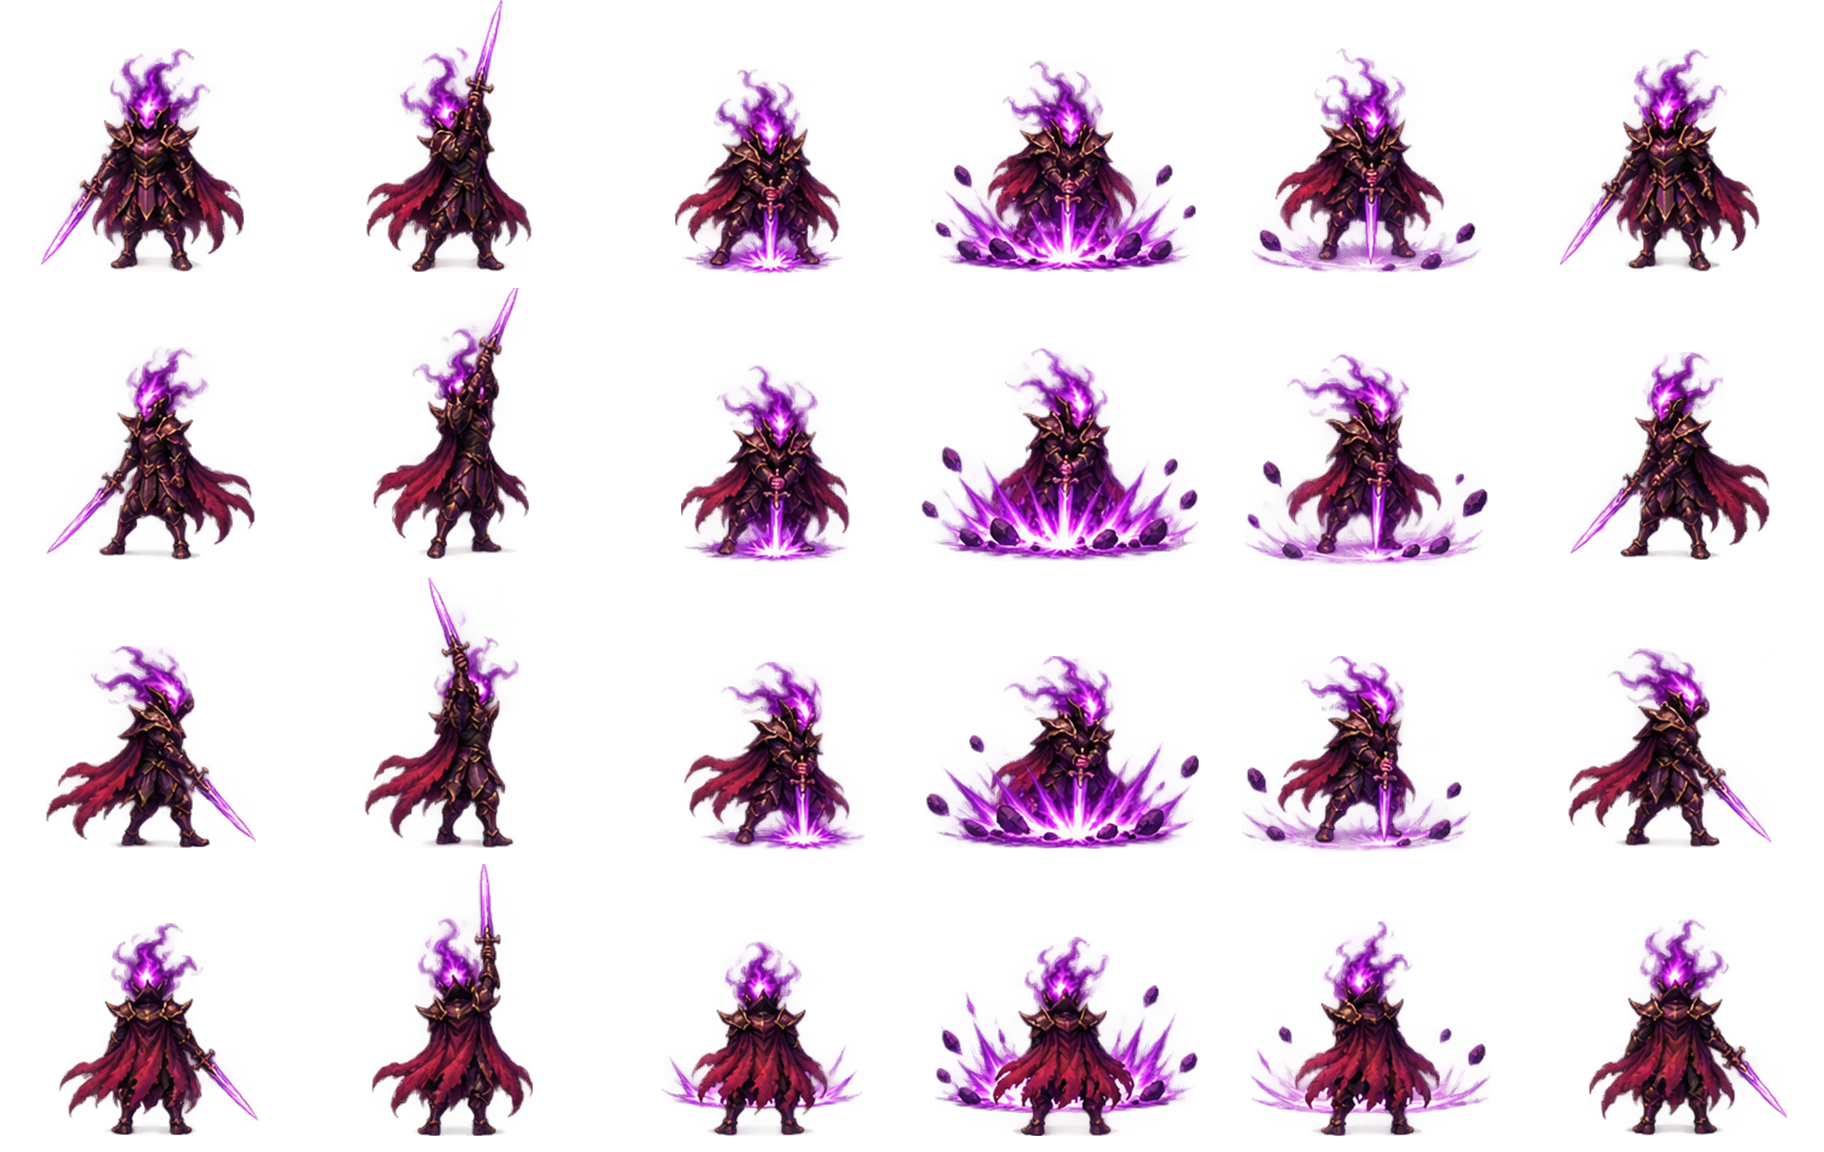
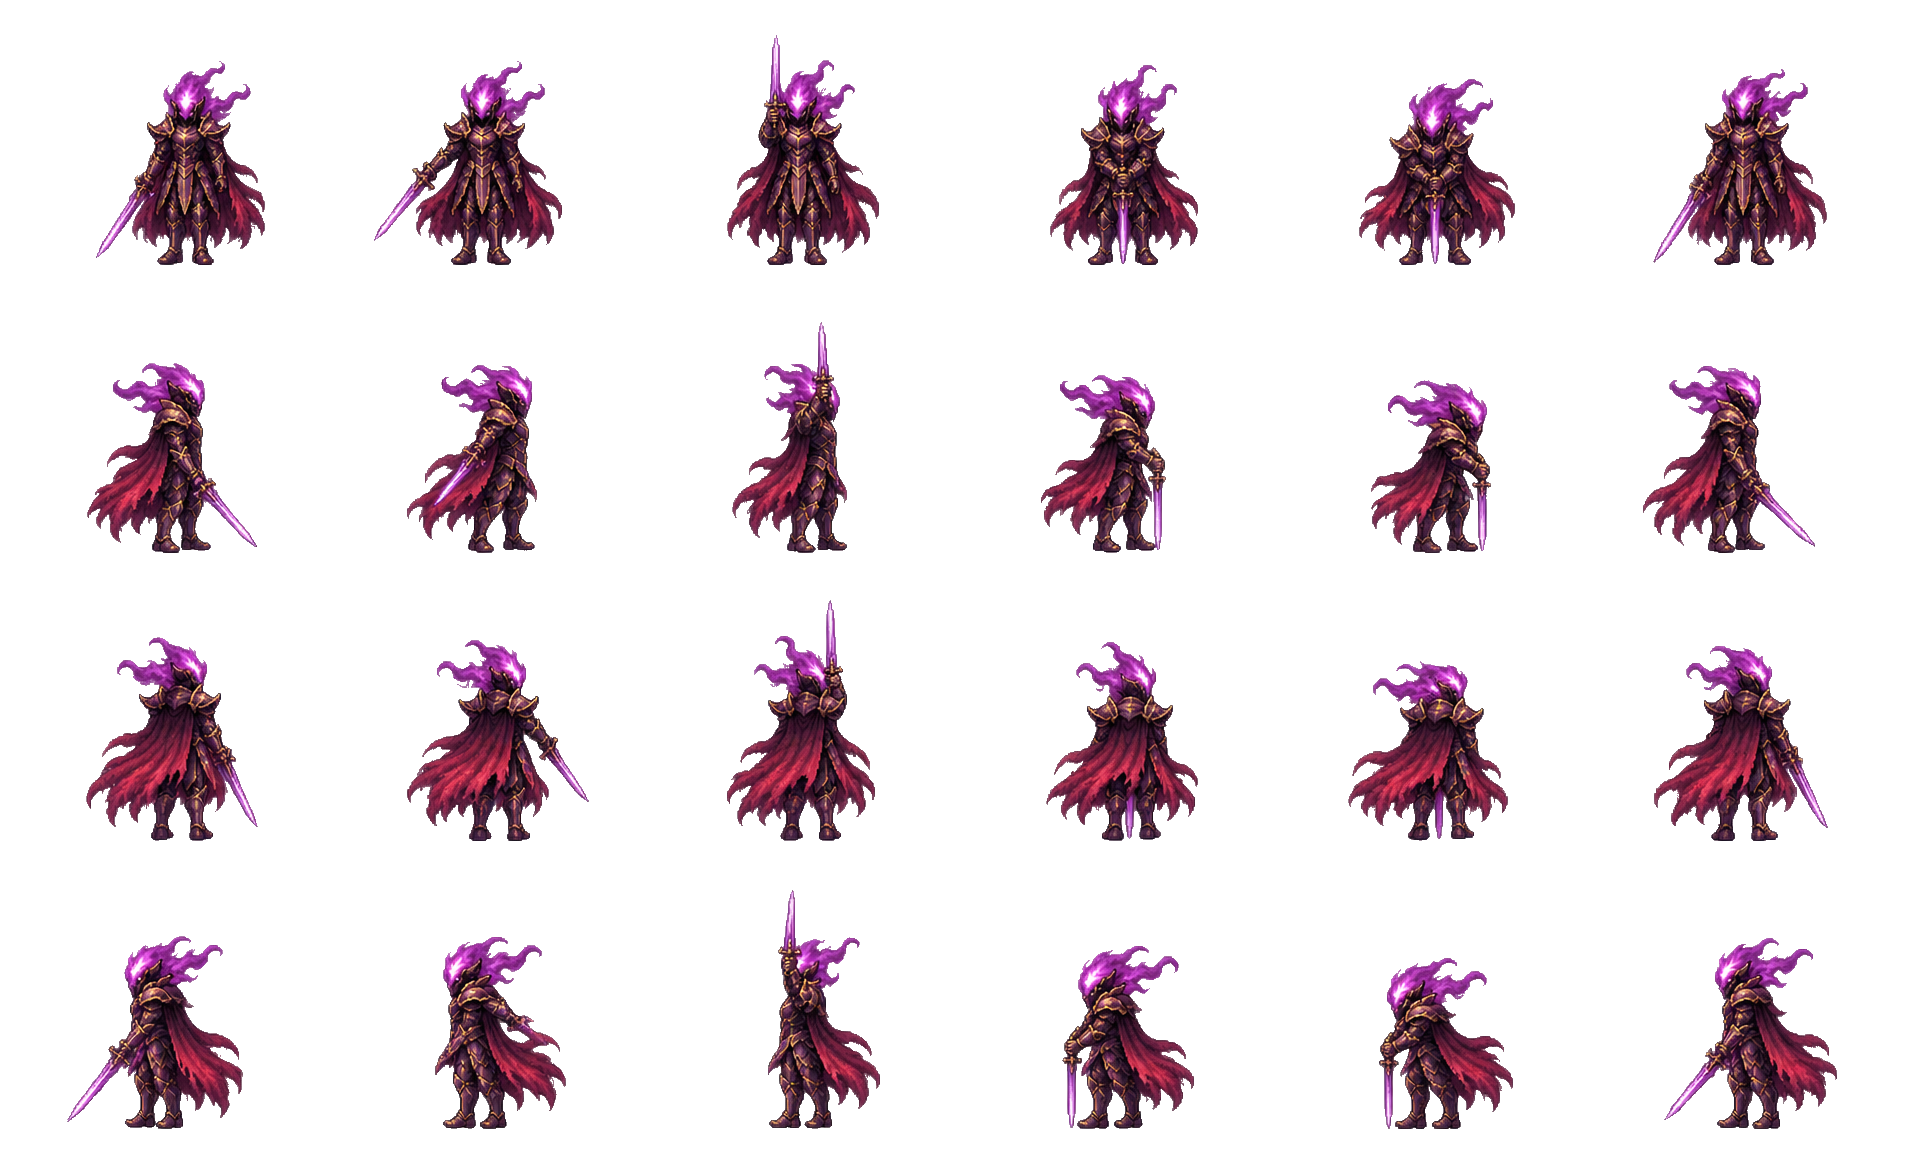
Refina escala, caminhada e ataques do Igris

diff --git a/src/enemy.c b/src/enemy.c
@@ -1449,6 +1449,7 @@ static void UpdateIgris(EnemyGroup *group, const Clearing *map, Enemy *boss, Vec
     bool enraged = GuardianEnraged(boss);
     if (boss->state != ENEMY_ATTACK) {
         if (*health <= 0) return;
+        int previousFacing = boss->facing;
         boss->facing = FacingToward(direction);
         if (boss->attackCooldown <= 0 && MapHasClearPath(map,boss->position,player)) {
             int skill = -1;
@@ -1496,10 +1497,18 @@ static void UpdateIgris(EnemyGroup *group, const Clearing *map, Enemy *boss, Vec
             }
         }
         if (distance > 90) {
-            boss->state = ENEMY_WALK;
-            boss->walkTime += dt;
+            Vector2 start = boss->position;
             float speedScale = boss->igrisFinalForm ? 1.30f : enraged ? 1.13f : 1;
             MoveEnemy(map,boss,Vector2Scale(direction,boss->speed*dt*speedScale));
+            Vector2 step = Vector2Subtract(boss->position,start);
+            float traveled = Vector2Length(step);
+            boss->state = traveled > .01f ? ENEMY_WALK : ENEMY_IDLE;
+            if (boss->state == ENEMY_WALK) {
+                boss->walkTime += traveled / boss->speed;
+                float dx = fabsf(step.x), dy = fabsf(step.y);
+                bool horizontal = previousFacing >= 2 ? dx > dy*.85f : dx > dy/.85f;
+                boss->facing = horizontal ? (step.x < 0 ? 2 : 3) : (step.y < 0 ? 1 : 0);
+            }
         } else boss->state = ENEMY_IDLE;
         return;
     }
@@ -2240,24 +2249,24 @@ static void DrawIgrisCell(Texture2D art, int columns, int rows, int col, int row
                    (Vector2){width*anchorX,height*anchorY},tilt,tint);
 }
 
-static void DrawIgrisEclipsePose(Texture2D art, int frame, int row, Vector2 feet, Color tint) {
-    static const int edges[4][9] = {
-        {0,182,360,548,751,974,1188,1363,1536},
-        {0,181,367,550,745,973,1180,1362,1536},
-        {0,197,395,566,766,1012,1203,1371,1536},
-        {0,170,352,527,715,929,1155,1354,1536},
+// The body has a common standing height. Measure the resting pose in each sheet,
+// excluding detached effects, so larger cells and crouches do not change scale.
+#define IGRIS_BODY_HEIGHT 162.0f
+static void DrawIgrisBody(Texture2D tex, int art, int columns, int rows, int frame, int row,
+                           Vector2 feet, bool flip, float tilt, Color tint) {
+    static const struct { float body, ground; } fit[IGRIS_ART_COUNT] = {
+        [IGRIS_IDLE_ART] = {218,239}, [IGRIS_WALK_ART] = {217,239},
+        [IGRIS_MELEE_ART] = {215,269}, [IGRIS_ERUPTION_ART] = {194,264},
+        [IGRIS_SPEARS_ART] = {195,264}, [IGRIS_VORTEX_ART] = {208,264},
+        [IGRIS_FINAL_IDLE] = {232,280}, [IGRIS_FINAL_WALK] = {232,280},
+        [IGRIS_FINAL_MELEE] = {234,280}, [IGRIS_GRAB_ART] = {188,267},
+        [IGRIS_ECHO_ART] = {190,252},
+        [IGRIS_Z_DOWN] = {237,312}, [IGRIS_Z_UP] = {250,322},
+        [IGRIS_Z_LEFT] = {208,303}, [IGRIS_Z_RIGHT] = {222,304},
     };
-    static const int body[4][8] = {
-        {100,269,454,639,844,1062,1272,1441},
-        {101,270,456,622,814,1030,1259,1447},
-        {114,287,474,664,883,1080,1280,1471},
-        {96,259,431,611,814,1029,1243,1446},
-    };
-    int left = edges[row][frame], width = edges[row][frame+1]-left;
-    const float scale = .85f;
-    DrawTexturePro(art,(Rectangle){left,row*256,width,256},
-                   (Rectangle){feet.x,feet.y,width*scale,256*scale},
-                   (Vector2){(body[row][frame]-left)*scale,239*scale},0,tint);
+    float cellHeight = tex.height/(float)rows;
+    DrawIgrisCell(tex,columns,rows,frame,row,feet,cellHeight*IGRIS_BODY_HEIGHT/fit[art].body,
+                  .5f,fit[art].ground/cellHeight,flip,tilt,tint);
 }
 
 static void DrawIgrisEruption(Texture2D art, int frame, Vector2 center) {
@@ -2278,13 +2287,9 @@ static void DrawIgrisEruption(Texture2D art, int frame, Vector2 center) {
                    (Vector2){width*scale*.5f,(height-9)*scale},0,WHITE);
 }
 
-static int IgrisRow(int art, int facing) {
-    static const int basicRows[] = {0,2,3,1};
-    static const int spellRows[] = {0,3,2,1};
-    static const int eruptionRows[] = {0,3,1,2};
-    if (art == IGRIS_ERUPTION_ART) return eruptionRows[facing];
-    if (art >= IGRIS_SPEARS_ART) return spellRows[facing];
-    return basicRows[facing];
+static int IgrisRow(int facing) {
+    static const int rows[] = {0,2,3,1};
+    return rows[facing];
 }
 
 static void DrawTemplarSprite(const EnemyGroup *group, const Enemy *enemy,
@@ -2317,7 +2322,8 @@ static void DrawIgris(const EnemyGroup *group, const Enemy *enemy) {
     if (enemy->state == ENEMY_WALK || enemy->state == ENEMY_SPAWNING) {
         art = enemy->igrisFinalForm ? IGRIS_FINAL_WALK : IGRIS_WALK_ART;
         columns = enemy->igrisFinalForm ? 4 : 7;
-        frame = (int)((enemy->state == ENEMY_WALK ? enemy->walkTime : enemy->stateTime)*11)%columns;
+        float cadence = enemy->igrisFinalForm ? 8 : 10;
+        frame = (int)((enemy->state == ENEMY_WALK ? enemy->walkTime : enemy->stateTime)*cadence)%columns;
     }
     if (enemy->state == ENEMY_ATTACK) {
         int skill = enemy->bossAttack;
@@ -2325,41 +2331,38 @@ static void DrawIgris(const EnemyGroup *group, const Enemy *enemy) {
             float t = enemy->stateTime;
             int cel = t < IGRIS_ECHO_PLANT ? 0 : t >= IGRIS_ECHO_FADE ? 5 :
                 t < IgrisEchoLaunch(0) ? 1 : t < IgrisEchoLaunch(1) ? 2 : t < IgrisEchoLaunch(2) ? 3 : 4;
-            DrawIgrisCell(group->igrisArt[IGRIS_ECHO_ART],6,4,cel,IgrisRow(IGRIS_FINAL_MELEE,facing),
-                          feet,245,.5f,.88f,false,0,WHITE);
+            DrawIgrisBody(group->igrisArt[IGRIS_ECHO_ART],IGRIS_ECHO_ART,6,4,cel,IgrisRow(facing),
+                          feet,false,0,WHITE);
             return;
         }
         if (skill == IGRIS_Z_RIP) {
             int cel = 0;
             while (cel < 11 && enemy->stateTime >= igrisZFrames[cel+1]) cel++;
-            DrawIgrisCell(group->igrisArt[IGRIS_Z_DOWN+facing],4,3,cel%4,cel/4,
-                          feet,272,.5f,.88f,false,0,WHITE);
+            DrawIgrisBody(group->igrisArt[IGRIS_Z_DOWN+facing],IGRIS_Z_DOWN+facing,4,3,cel%4,cel/4,
+                          feet,false,0,WHITE);
             return;
         }
         if (skill == IGRIS_ABYSS_GRAB) {
             float t = enemy->stateTime;
             int cel = t < .22f ? 0 : t < .40f ? 1 : t < IGRIS_GRAB_IMPACT ? 2 :
                 t < .78f ? 3 : t < IGRIS_GRAB_RELEASE ? 4 : 5;
-            DrawIgrisCell(group->igrisArt[IGRIS_GRAB_ART],6,4,cel,IgrisRow(IGRIS_FINAL_MELEE,facing),
-                          feet,272.2f,.5f,.84f,false,0,WHITE);
+            DrawIgrisBody(group->igrisArt[IGRIS_GRAB_ART],IGRIS_GRAB_ART,6,4,cel,IgrisRow(facing),
+                          feet,false,0,WHITE);
             return;
         }
-        art = igrisSkills[skill].art;
-        columns = skill == IGRIS_FINAL_CLAW ? 4 : skill <= IGRIS_ECLIPSE ? 8 : 6;
-        int impactFrame = skill <= IGRIS_ECLIPSE ? 4 :
-            (skill == IGRIS_ERUPTION || skill == IGRIS_FINAL_CLAW) ? 2 : 3;
+        // A pose de giro é o corte limpo; o crescente é desenhado na direção do golpe.
+        art = skill == IGRIS_ECLIPSE ? IGRIS_VORTEX_ART : igrisSkills[skill].art;
+        if (skill == IGRIS_SPEARS || skill == IGRIS_ECLIPSE)
+            facing = FacingToward(enemy->attackDirection);
+        bool eightFrames = skill == IGRIS_MELEE || skill == IGRIS_SPEARS;
+        columns = skill == IGRIS_FINAL_CLAW ? 4 : eightFrames ? 8 : 6;
+        int impactFrame = eightFrames ? 4 : skill == IGRIS_FINAL_CLAW ? 2 : 3;
         float t = enemy->stateTime, impact = igrisSkills[skill].impact;
         frame = t < impact ? (int)(t/impact*impactFrame) :
             impactFrame+(int)((t-impact)/(igrisSkills[skill].duration-impact)*(columns-impactFrame));
         frame = (int)Clamp(frame,0,columns-1);
     }
-    bool flip = (art <= IGRIS_MELEE_ART && facing == 3) ||
-                (art == IGRIS_SPEARS_ART && facing == 2);
-    float anchorX = .50f;
-    float ground = enemy->igrisFinalForm ? .88f : (art == IGRIS_SPEARS_ART ? .78f : .94f);
-    float drawHeight = enemy->igrisFinalForm ? 245.0f :
-                       (art == IGRIS_SPEARS_ART ? 237.5f :
-                        (art == IGRIS_MELEE_ART || art == IGRIS_ERUPTION_ART) ? 213.75f : 190.0f);
+    bool flip = art <= IGRIS_MELEE_ART && facing == 3;
     bool fallen = enemy->state == ENEMY_FALLEN;
     float fall = fallen ? 1 : enemy->state == ENEMY_DIE ? Clamp(enemy->stateTime/1.2f,0,1) : 0;
     if (fallen) DrawBossGroundSeal(group->sealMarker,feet);
@@ -2368,9 +2371,8 @@ static void DrawIgris(const EnemyGroup *group, const Enemy *enemy) {
         DrawCircleV(feet,52,Fade(PURPLE,.35f+.18f*sinf(enemy->stateTime*17)));
         tint = (Color){255,174,226,255};
     }
-    if (art == IGRIS_ECLIPSE_ART) DrawIgrisEclipsePose(group->igrisArt[art],frame,IgrisRow(art,facing),feet,tint);
-    else DrawIgrisCell(group->igrisArt[art],columns,4,frame,IgrisRow(art,facing),feet,
-                       drawHeight,anchorX,ground,flip,fall*72,tint);
+    DrawIgrisBody(group->igrisArt[art],art,columns,4,frame,IgrisRow(facing),
+                       feet,flip,fall*72,tint);
     if (fallen) DrawGameText("E: selar",(int)feet.x-30,(int)feet.y+12,18,GOLD);
 }
 
@@ -2547,7 +2549,7 @@ static void DrawIgrisEchoes(const EnemyGroup *group, const Enemy *boss) {
         if (age < -IGRIS_ECHO_WARNING) continue;
         Vector2 from = boss->igrisEchoFrom[i], to = boss->igrisEchoTo[i];
         Vector2 direction = Vector2Subtract(to,from);
-        int row = IgrisRow(IGRIS_FINAL_MELEE,FacingToward(direction));
+        int row = IgrisRow(FacingToward(direction));
         if (age < 0) {
             float opacity = 1+age/IGRIS_ECHO_WARNING;
             DrawLineEx(from,to,2*IGRIS_ECHO_WIDTH,Fade(PURPLE,.15f+.19f*opacity));
@@ -2569,6 +2571,21 @@ static void DrawIgrisEchoes(const EnemyGroup *group, const Enemy *boss) {
     }
 }
 
+static void DrawIgrisEclipseArc(const Enemy *boss, float progress, float reach) {
+    const float spread = acosf(igrisSkills[IGRIS_ECLIPSE].arcDot);
+    float fade = 1-progress;
+    float radius = reach*(.40f+.60f*progress);
+    for (int i=0;i<24;i++) {
+        float low = Lerp(-spread,spread,i/24.0f);
+        float high = Lerp(-spread,spread,(i+1)/24.0f);
+        Vector2 a = Vector2Add(boss->position,Vector2Scale(Vector2Rotate(boss->attackDirection,low),radius));
+        Vector2 b = Vector2Add(boss->position,Vector2Scale(Vector2Rotate(boss->attackDirection,high),radius));
+        float width = 2+9*sinf((i+.5f)*PI/24);
+        DrawLineEx(a,b,width*1.6f,Fade(PURPLE,fade*.62f));
+        DrawLineEx(a,b,width*.6f,Fade((Color){237,155,255,255},fade));
+    }
+}
+
 static void DrawIgrisWarning(const EnemyGroup *group, const Enemy *boss) {
     if (boss->state != ENEMY_ATTACK) return;
     int skill = boss->bossAttack;
@@ -2583,13 +2600,12 @@ static void DrawIgrisWarning(const EnemyGroup *group, const Enemy *boss) {
             DrawLineEx(boss->position,end,2*IGRIS_GRAB_HALF_WIDTH,Fade(PURPLE,.24f));
             DrawLineEx(boss->position,end,4,Fade(VIOLET,.82f));
         }
-        if (t >= .40f && t < IGRIS_GRAB_RELEASE) {
+        if (t >= IGRIS_GRAB_IMPACT && t < IGRIS_GRAB_RELEASE) {
             Texture2D art = group->igrisArt[IGRIS_GRAB_FX];
-            int frame = t < IGRIS_GRAB_IMPACT ? 2 : t < .79f ? 3 : 4;
+            int frame = t < .79f ? 3 : 4;
             float w = art.width/6.0f, h = art.height/4.0f;
             float angle = atan2f(boss->attackDirection.y,boss->attackDirection.x)*RAD2DEG;
-            float length = t < IGRIS_GRAB_IMPACT ? IGRIS_GRAB_REACH :
-                Lerp(IGRIS_GRAB_REACH,95,Clamp((t-IGRIS_GRAB_IMPACT)/(IGRIS_GRAB_RELEASE-IGRIS_GRAB_IMPACT),0,1));
+            float length = Lerp(IGRIS_GRAB_REACH,95,Clamp((t-IGRIS_GRAB_IMPACT)/(IGRIS_GRAB_RELEASE-IGRIS_GRAB_IMPACT),0,1));
             Vector2 anchor = {boss->position.x,boss->position.y-28};
             DrawTexturePro(art,(Rectangle){frame*w,h,w,h},
                            (Rectangle){anchor.x,anchor.y,length,140},(Vector2){0,70},angle,WHITE);
@@ -2631,17 +2647,18 @@ static void DrawIgrisWarning(const EnemyGroup *group, const Enemy *boss) {
         return;
     }
     float progress = Clamp((t-impact)/(igrisSkills[skill].duration-impact),0,.999f);
-    int facing = boss->facing;
     if (skill == IGRIS_ECLIPSE) {
-        center = Vector2Add(center,Vector2Scale(boss->attackDirection,radius*(.42f+.32f*progress)));
-        DrawIgrisCell(group->igrisArt[IGRIS_ECLIPSE_FX],8,4,(int)(progress*8),IgrisRow(IGRIS_ECLIPSE_ART,facing),
-                      center,145,.5f,.57f,false,0,WHITE);
+        DrawIgrisEclipseArc(boss,progress,radius);
     } else if (skill == IGRIS_ERUPTION) {
         int frame = (int)(progress*24);
         DrawIgrisEruption(group->igrisArt[IGRIS_ERUPTION_FX],frame,center);
     } else if (skill == IGRIS_VORTEX) {
-        DrawIgrisCell(group->igrisArt[IGRIS_VORTEX_FX],6,4,(int)(progress*6),IgrisRow(IGRIS_VORTEX_ART,facing),
-                      center,360,.5f,.60f,false,0,WHITE);
+        Texture2D art = group->igrisArt[IGRIS_VORTEX_FX];
+        float w = art.width/6.0f, h = art.height/4.0f;
+        int frame = 1+(int)(progress*5);
+        DrawTexturePro(art,(Rectangle){frame*w,0,w,h},
+                       (Rectangle){center.x,center.y,radius*2,radius*1.2f},
+                       (Vector2){radius,radius*.68f},0,Fade(WHITE,1-.55f*progress));
     }
 }
 

diff --git a/CONTINUIDADE.md b/CONTINUIDADE.md
@@ -496,3 +496,13 @@ Na entrega do pós-boss de 18/11, build em `out/review` concluído e seis testes
 ## Transições de fase no HUD
 
 - As transições de fase dos chefes acionam um pulso violeta de 0,65 s no limiar correspondente do HUD, com brilho na moldura e uma caveira pixelada que se dissipa em partículas. A caveira fica junto à borda inferior para preservar a leitura do nome e dos PV. O efeito usa o relógio da transformação do próprio chefe.
+
+## Refinamento das animações de Igris
+
+- Lanças da Umbra, Erupção e Vórtice usam novos atlas de corpo sem efeitos embutidos, com 32 poses para Lanças da Umbra e 24 para cada outro feitiço, e o mesmo pivô de chão nas quatro direções. Os quadros têm a escala-base da espera de Igris. Continuam valendo os três projéteis e os efeitos separados do combate.
+- O Corte do Eclipse usa a pose de giro limpa e um único crescente construído no vetor do golpe. O Vórtice fica centrado no chão, e a Garra do Abismo só exibe a extensão separada na janela de impacto. Os tempos de dano, a IA e as áreas de acerto foram preservados.
+- Build local `out/review/JogoPiF-Igris-Refinado.exe`. Auditoria de inimigos aprovada e renderização das poses conferida. Revisão de fluidez durante a luta fica para teste em partida.
+
+- A escala do corpo de Igris foi calibrada pela altura da pose de referência em todos os atlas, da espera ao Rasgo em Z. A forma final mantém a silhueta da garra, com a mesma referência de altura corporal. Os dois atlas de caminhada foram alinhados pelo tronco e a cadência usa a distância efetivamente percorrida, com orientação estabilizada perto das diagonais. Build `out/review/JogoPiF-Igris-Escala.exe`; auditoria de inimigos, captura das poses e deslocamento em oito direções em piso livre conferidos.
+
+- As Lanças da Umbra usam os oito novos quadros por direção e selecionam a orientação pelo vetor de disparo. O crescente do Eclipse foi validado por captura nas quatro direções. Build local em `out/review/JogoPiF-Igris-Direcoes.exe`.
